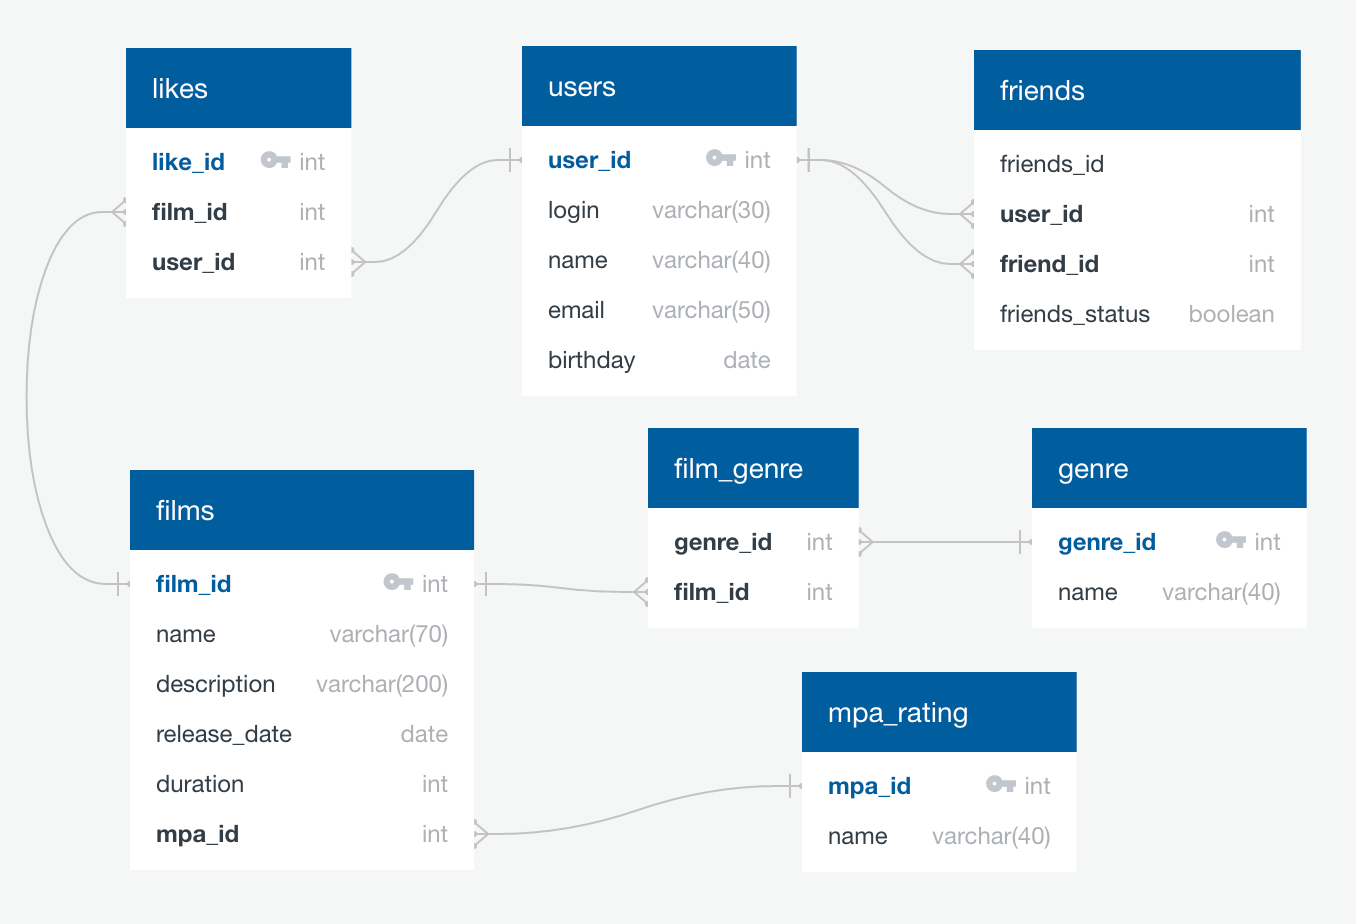
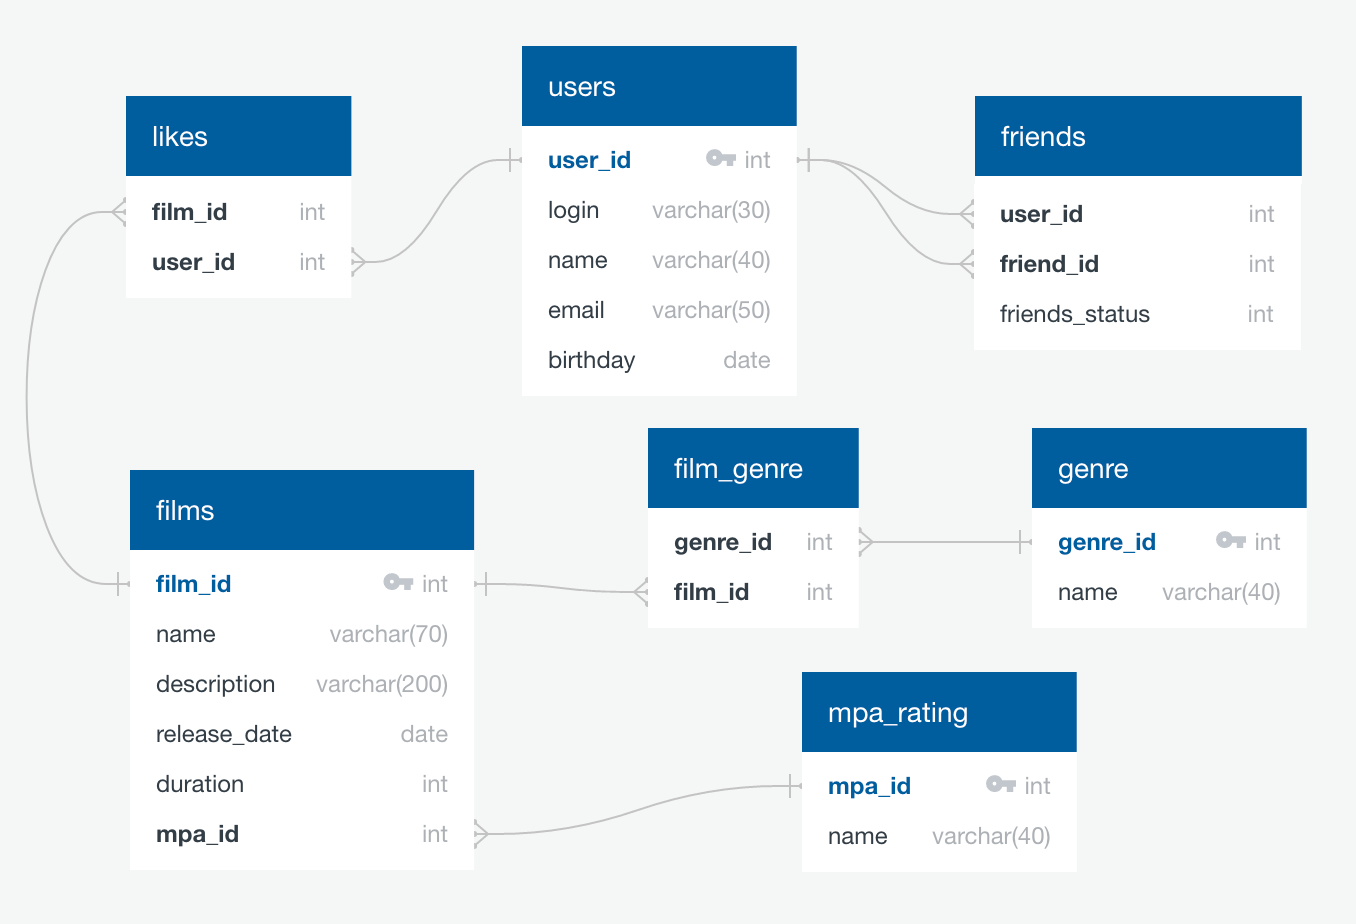
fix: исправлены диаграма и readme.md #11.2

Changed region(s): [[0.7124, 0.0303, 0.9602, 0.2121], [0.0929, 0.0303, 0.2788, 0.2121], [0.8673, 0.3333, 0.9292, 0.3636]]

diff --git a/README.md b/README.md
@@ -36,24 +36,24 @@ FROM users;
 ```sql
 -- Получение списка всех фильмов:  
 SELECT * 
-FROM films;  
+FROM films;
 
--- Получение списка 10 популярных фильмов:  
-SELECT fi.*
-FROM films AS fi   
-LEFT JOIN likes AS li ON fi.film_id = li.film_id  
-GROUP BY fi.film_id  
-ORDER BY COUNT(li.user_id) DESC  
-limit 10;
+-- Поставить лайк фильму:  
+INSERT INTO likes(user_id, film_id) 
+VALUES (?, ?);
 
--- Получение списка друзей пользователя:
-SELECT us.user_id,
-       us.name, 
-       us.login,
-FROM friends AS fr
-LEFT JOIN users AS us ON fr.friend_id = us.user_id 
-WHERE fr.user_id = ? 
-ORDER BY us.user_id;
+-- Добавление жанра фильму:  
+INSERT INTO film_genre (film_id, genre_id) 
+VALUES (?, ?);
+
+-- Обновление фильма:
+UPDATE films 
+SET name = ?, 
+    description = ?, 
+    release_date = ?, 
+    duration = ?, 
+    mpa_id = ? 
+WHERE film_id = ?;
 ```
 *Стек технологий:*
 *Java 11, Spring Boot, Maven, REST API, JDBC, H2*
